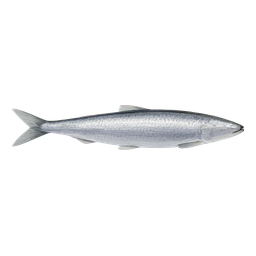
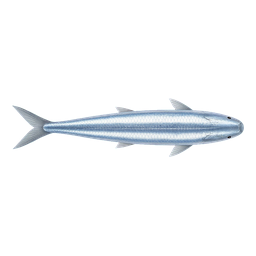
v2026.11.05-5: Tiere von oben, unter der Oberfläche
Seegras ist raus. Fische, Schildkröte und Quallen sind Draufsichten und
liegen gedämpft, leicht unscharf und mit Lichtflecken unter dem Müll.

Changed region(s): [[0.0312, 0.375, 0.9688, 0.625]]

diff --git a/src/life-layer.js b/src/life-layer.js
@@ -1,6 +1,7 @@
-// Meeresleben UNTER dem Müll-Canvas: Seegras, Quallen, Schildkröte, Fische.
-// Wird nicht eingesammelt. Wischen beeinflusst nur die eigene Bewegung (life-sim.js).
-import {LIFE_KINDS,createCreature,stepLife} from './life-sim.js?v=20261105-life4';
+// Meeresleben UNTER der Wasseroberfläche und unter dem Müll.
+// Eigener Canvas: Tiere etwas dunkel, leicht unscharf, mit wandernden Kaustiken.
+// Kein Auflageschatten — der gehört nur zum Müll auf der Oberfläche.
+import {LIFE_KINDS,createCreature,stepLife} from './life-sim.js?v=20261105-life5';
 
 const load=src=>new Promise((ok,fail)=>{const i=new Image();i.decoding='async';i.onload=()=>ok(i);i.onerror=()=>fail(new Error('Bild fehlt: '+src));i.src=src;});
 const rng=seed=>()=>{seed|=0;seed=seed+0x6D2B79F5|0;let t=Math.imul(seed^seed>>>15,1|seed);t=t+Math.imul(t^t>>>7,61|t)^t;return((t^t>>>14)>>>0)/4294967296;};
@@ -9,7 +10,9 @@ export class LifeLayer{
  constructor(ocean,config,input,{seed=29}={}){
   this.ocean=ocean;this.cfg=config;this.input=input;this.rand=rng(seed);
   this.canvas=document.createElement('canvas');this.canvas.className='life-layer';this.canvas.setAttribute('aria-hidden','true');
-  this.ctx=this.canvas.getContext('2d');this.creatures=[];this.raf=0;this.last=0;this.time=0;this.acc=0;
+  this.ctx=this.canvas.getContext('2d');
+  this.buf=document.createElement('canvas');this.bctx=this.buf.getContext('2d');
+  this.creatures=[];this.raf=0;this.last=0;this.time=0;this.acc=0;
  }
  async init(){
   this.images={};await Promise.all(LIFE_KINDS.map(async k=>{this.images[k.name]=await load(k.src);}));
@@ -21,26 +24,21 @@ export class LifeLayer{
  get base(){return Math.max(21,Math.min(36,Math.min(this.ocean.width,this.playH())/390*25));}
  resize(){
   const o=this.ocean,dpr=Math.min(devicePixelRatio||1,2),w=Math.round(o.width*dpr),h=Math.round(o.height*dpr);this.dpr=dpr;
-  if(this.canvas.width!==w||this.canvas.height!==h){this.canvas.width=w;this.canvas.height=h;}
+  if(this.canvas.width!==w||this.canvas.height!==h){this.canvas.width=w;this.canvas.height=h;this.buf.width=w;this.buf.height=h;}
   const ph=this.playH();
   if(this.w&&this.creatures.length){const sx=o.width/this.w,sy=ph/this.h;for(const c of this.creatures){c.x*=sx;c.y*=sy;}}
   this.w=o.width;this.h=ph;
  }
  spawn(){
   const counts=this.cfg.life.counts,w=this.w,h=this.h,r=this.rand;
-  const put=(name,n,band)=>{
+  const put=(name,n)=>{
    const kind=LIFE_KINDS.find(k=>k.name===name);
-   for(let i=0;i<n;i++){
-    let x=48+r()*(w-96),y=band?h*(.55+r()*.32):70+r()*(h-140);
-    this.creatures.push(createCreature(kind,x,y,r));
-   }
+   for(let i=0;i<n;i++)this.creatures.push(createCreature(kind,48+r()*(w-96),70+r()*(h-140),r));
   };
-  put('seegras',counts.seegras,true);
-  put('qualle',counts.qualle,false);
-  put('schildkroete',counts.schildkroete,false);
-  put('sardine',counts.sardine,false);
-  put('brasse',counts.brasse,false);
-  put('makrele',counts.makrele,false);
+  put('qualle',counts.qualle);
+  put('schildkroete',counts.schildkroete);
+  put('sardine',counts.sardine);
+  put('makrele',counts.makrele);
  }
  start(){if(!this.raf&&!document.hidden){this.last=0;this.raf=requestAnimationFrame(()=>this.frame());}}
  stop(){cancelAnimationFrame(this.raf);this.raf=0;}
@@ -55,26 +53,32 @@ export class LifeLayer{
   this.raf=requestAnimationFrame(()=>this.frame());
  }
  draw(){
-  const c=this.ctx,dpr=this.dpr,base=this.base;
-  c.setTransform(1,0,0,1,0,0);c.clearRect(0,0,this.canvas.width,this.canvas.height);
-  const order=['grass','jelly','turtle','fish'];
-  const list=this.creatures.slice().sort((a,b)=>order.indexOf(a.kind.role)-order.indexOf(b.kind.role));
+  const c=this.bctx,dpr=this.dpr,base=this.base,L=this.cfg.life;
+  c.setTransform(1,0,0,1,0,0);c.clearRect(0,0,this.buf.width,this.buf.height);
+  const order={jelly:0,turtle:1,fish:2};
+  const list=this.creatures.slice().sort((a,b)=>order[a.kind.role]-order[b.kind.role]);
   for(const b of list){
    const img=this.images[b.kind.name];if(!img)continue;
-   const size=base*b.kind.look,box=size*2.4;
-   c.setTransform(dpr,0,0,dpr,0,0);
-   if(b.kind.role==='grass'){
-    c.translate(b.x,b.y);c.rotate(b.bend);c.globalAlpha=.92;
-    c.drawImage(img,-box/2,-box*.92,box,box);
-   }else if(b.kind.role==='jelly'){
-    c.translate(b.x,b.y);c.rotate(Math.sin(this.time*.3+b.phase)*.15);
-    c.scale(b.pulse,b.squash);c.globalAlpha=.88;
-    c.drawImage(img,-box/2,-box/2,box,box);
-   }else{
-    c.translate(b.x,b.y);c.rotate(b.heading);c.globalAlpha=1;
-    c.drawImage(img,-box/2,-box/2,box,box);
-   }
+   const size=base*b.kind.look,box=size*2.35;
+   c.setTransform(dpr,0,0,dpr,0,0);c.translate(b.x,b.y);
+   if(b.kind.role==='jelly'){c.scale(b.pulse,b.squash);c.globalAlpha=.9;}
+   else{c.rotate(b.heading);c.globalAlpha=1;}
+   c.drawImage(img,-box/2,-box/2,box,box);
   }
-  c.globalAlpha=1;
+  const o=this.ctx;o.setTransform(1,0,0,1,0,0);o.clearRect(0,0,this.canvas.width,this.canvas.height);
+  o.save();o.filter=`blur(${L.blur}px)`;o.globalAlpha=L.alpha;o.drawImage(this.buf,0,0);o.restore();
+  // Nur auf den Tieren: kühles Wasser und wandernde Kaustik, nichts auf leerem Grund.
+  o.save();o.globalCompositeOperation='source-atop';
+  o.fillStyle=`rgba(6,42,72,${L.tint})`;o.fillRect(0,0,this.w,this.h);
+  o.globalAlpha=L.caustic;
+  const t=this.time;
+  for(let i=0;i<6;i++){
+   const x=(this.w*(.12+i*.15)+Math.sin(t*.55+i*1.4)*this.w*.08)%this.w;
+   const y=(this.h*(.18+(i%3)*.28)+Math.cos(t*.4+i)*this.h*.06)%this.h;
+   const g=o.createRadialGradient(x,y,2,x,y,78);
+   g.addColorStop(0,'rgba(236,255,252,.95)');g.addColorStop(1,'rgba(236,255,252,0)');
+   o.fillStyle=g;o.beginPath();o.arc(x,y,78,0,Math.PI*2);o.fill();
+  }
+  o.restore();
  }
 }

diff --git a/index.html b/index.html
@@ -11,12 +11,12 @@
   <meta name="mobile-web-app-capable" content="yes">
   <meta name="apple-mobile-web-app-status-bar-style" content="black-translucent">
   <meta name="apple-mobile-web-app-title" content="Ocean Clean">
-  <link rel="manifest" href="./manifest.webmanifest?v=20261105-life4">
-  <link rel="apple-touch-icon" sizes="180x180" href="./assets/icons/apple-touch-icon.png?v=20261105-life4">
+  <link rel="manifest" href="./manifest.webmanifest?v=20261105-life5">
+  <link rel="apple-touch-icon" sizes="180x180" href="./assets/icons/apple-touch-icon.png?v=20261105-life5">
   <title>Ocean Clean</title>
   <script>
   // Version (auch unten neben Impressum sichtbar) – zum Prüfen, ob die neue Fassung geladen ist.
-  window.OCEAN_CLEAN_VERSION='2026.11.05-4';
+  window.OCEAN_CLEAN_VERSION='2026.11.05-5';
   // Sichtbare Spielfeldhöhe -> --play-h. Das WASSER ist absichtlich höher (siehe styles.css)
   // und ragt unten über den Bildschirmrand, egal wie iOS die Viewport-Höhe meldet.
   // iOS-Home-Bildschirm-App (black-translucent) meldet die Höhe teils um die Statusleiste zu klein;
@@ -28,8 +28,8 @@
    fit();addEventListener('resize',fit);addEventListener('orientationchange',function(){setTimeout(fit,300)});if(window.visualViewport)visualViewport.addEventListener('resize',fit);})();
   </script>
   <link rel="icon" type="image/svg+xml" href="./assets/wave.svg">
-  <link rel="stylesheet" href="./water-13.0.0/ocean.css?v=20261105-life4">
-  <link rel="stylesheet" href="./styles.css?v=20261105-life4">
+  <link rel="stylesheet" href="./water-13.0.0/ocean.css?v=20261105-life5">
+  <link rel="stylesheet" href="./styles.css?v=20261105-life5">
   <link rel="preload" as="image" href="./water-13.0.0/assets/coast-no-tent-v4.png">
 </head>
 <body>
@@ -38,9 +38,9 @@
     <header class="hud">
       <div class="brand"><svg viewBox="0 0 24 24" aria-hidden="true"><path d="M3 16c2.4 0 3.5-1.3 4.7-3.8C9.6 8.3 11.5 5 15.4 5a5.3 5.3 0 0 1 5.3 5.2c-1.3-1.7-3.8-2-5.1-.6-1.7 1.8-.3 4.4 2.5 4.4H21M3 19h18"/></svg><span>ocean <b>clean</b></span></div>
     </header>
-    <nav class="legal" aria-label="Rechtliches"><a href="impressum.html">Impressum</a><a href="datenschutz.html">Datenschutz</a><span class="ver" id="app-version">v2026.11.05-4</span></nav>
+    <nav class="legal" aria-label="Rechtliches"><a href="impressum.html">Impressum</a><a href="datenschutz.html">Datenschutz</a><span class="ver" id="app-version">v2026.11.05-5</span></nav>
     <p id="error" class="error" role="alert" hidden></p>
   </main>
-  <script type="module" src="./app.js?v=20261105-life4"></script>
+  <script type="module" src="./app.js?v=20261105-life5"></script>
 </body>
 </html>

diff --git a/src/life-sim.js b/src/life-sim.js
@@ -1,5 +1,5 @@
-// Reine Bewegung für Meeresleben (ohne DOM). Feste Aufrufe mit dt, testbar.
-// Gras bleibt verankert und wiegt nur. Fische schwimmen und weichen starker
+// Reine Bewegung für Meeresleben unter der Oberfläche (ohne DOM). Feste Aufrufe
+// mit dt, testbar. Fische schwimmen in der Draufsicht und weichen starker
 // Wischströmung aus. Die Schildkröte ist langsam, Quallen treiben und pulsieren.
 // Nichts davon wird eingesammelt und nichts schreibt in die Müll-Physik.
 const TAU=Math.PI*2;
@@ -9,12 +9,10 @@ const clamp=(n,a,b)=>Math.max(a,Math.min(b,n));
 
 export const LIFE_KINDS=Object.freeze([
  {name:'sardine',role:'fish',speed:48,turn:.7,wander:.85,dodge:1,drift:.04,school:true,look:.62},
- {name:'brasse',role:'fish',speed:32,turn:.32,wander:.4,dodge:1,drift:.05,school:false,look:.9},
- {name:'makrele',role:'fish',speed:54,turn:.4,wander:.5,dodge:1,drift:.04,school:false,look:1.02},
+ {name:'makrele',role:'fish',speed:54,turn:.4,wander:.5,dodge:1,drift:.04,school:false,look:1.05},
  {name:'schildkroete',role:'turtle',speed:14,turn:.16,wander:.18,dodge:.22,drift:.1,school:false,look:1.45},
- {name:'qualle',role:'jelly',speed:7,turn:.12,wander:.22,dodge:0,drift:.38,school:false,look:.95,pulse:1.15},
- {name:'seegras',role:'grass',speed:0,turn:0,wander:0,dodge:0,drift:0,school:false,look:1.12}
-].map(k=>Object.freeze({...k,src:`./assets/life/${k.name}.png?v=20261105-life4`})));
+ {name:'qualle',role:'jelly',speed:7,turn:.12,wander:.22,dodge:0,drift:.38,school:false,look:.95,pulse:1.15}
+].map(k=>Object.freeze({...k,src:`./assets/life/${k.name}.png?v=20261105-life5`})));
 
 export function createCreature(kind,x,y,rand=Math.random){
  return{kind,x,y,heading:rand()*TAU,phase:rand()*TAU,bend:0,pulse:1,squash:1};
@@ -27,13 +25,6 @@ export function stepLife(list,env,dt,cfg){
  const {width:w,height:h}=env,m=40;
  for(const c of list){
   const f=env.flow(c.x,c.y)||{vx:0,vy:0,weight:0},fw=f.weight||0;
-  if(c.kind.role==='grass'){
-   const wave=Math.sin(env.t*cfg.grassWave+c.phase)*cfg.grassAmp;
-   let flow=0;
-   if(fw>.05&&(f.vx||f.vy))flow=Math.atan2(f.vy,f.vx)*Math.min(1,fw)*cfg.grassFlow;
-   c.bend=clamp(wave+flow,-cfg.grassMax,cfg.grassMax);
-   c.pulse=1;c.squash=1;continue;
-  }
   let turn=Math.sin(env.t*c.kind.wander+c.phase)*c.kind.turn;
   if(c.kind.school){
    const mates=schools[c.kind.name];let sx=0,sy=0,hx=0,hy=0,near=0;

diff --git a/app.js b/app.js
@@ -1,8 +1,8 @@
 import {OceanWater} from './water-13.0.0/ocean.js';
-import {makeConfig} from './src/config.js?v=20261105-life4';
-import {TrashLayer} from './src/trash-layer.js?v=20261105-life4';
-import {LifeLayer} from './src/life-layer.js?v=20261105-life4';
-import {SwipeInput,tuneWater} from './src/swipe-input.js?v=20261105-life4';
+import {makeConfig} from './src/config.js?v=20261105-life5';
+import {TrashLayer} from './src/trash-layer.js?v=20261105-life5';
+import {LifeLayer} from './src/life-layer.js?v=20261105-life5';
+import {SwipeInput,tuneWater} from './src/swipe-input.js?v=20261105-life5';
 const root=document.querySelector('#ocean'),error=document.querySelector('#error');
 const fail=message=>{error.hidden=false;error.textContent=message;};
 try{
@@ -15,7 +15,7 @@ try{
  const trash=await new TrashLayer(ocean,config,input).init();
  trash.canvas.before(life.canvas);
  window.oceanClean={ocean,trash,life,input,config,version:window.OCEAN_CLEAN_VERSION};
- if(new URLSearchParams(location.search).has('debug'))import('./src/debug.js?v=20261105-life4').then(m=>m.startDebug(window.oceanClean));
+ if(new URLSearchParams(location.search).has('debug'))import('./src/debug.js?v=20261105-life5').then(m=>m.startDebug(window.oceanClean));
  // Vollbild: bei Drehung / Browserleisten-Änderung Wasser und Müll-Canvas neu vermessen
  let pending=0;const refit=()=>{cancelAnimationFrame(pending);pending=requestAnimationFrame(()=>{const r=root.getBoundingClientRect();
   if(Math.abs(r.width-ocean.width)>.5||Math.abs(r.height-ocean.height)>.5)ocean.resize();life.resize();trash.resize();});};

diff --git a/src/trash-catalog.js b/src/trash-catalog.js
@@ -9,7 +9,7 @@ export const TRASH=Object.freeze([
  ['metall','kronkorken',0.42,0.15,0.6,0.4],['metall','dose',0.75,0.5,0.8,0.68],['metall','konservendose',0.8,0.7,0.65,0.62],['metall','spraydose',0.85,0.6,0.8,0.8],['metall','alu-schale',0.9,0.2,0.9,0.9],['metall','fischdose',0.75,0.5,0.75,0.7],
  ['glas','gruene-flasche',1.0,0.9,0.7,1.0],['glas','schraubglas',0.82,0.85,0.65,0.68],['glas','bierflasche',1.0,0.9,0.7,1.0],['glas','flaschenpost',0.95,0.8,0.75,0.95],['glas','parfuemflakon',0.7,0.6,0.65,0.58],['glas','medizinflasche',0.7,0.6,0.65,0.58],
  ['rest','badelatsche',0.85,0.45,0.95,0.9],['rest','reifen',1.1,1.2,0.7,1.25],['rest','fischernetz',1.1,0.8,0.5,1.2],['rest','handschuh',0.8,0.3,0.7,0.9],['rest','maske',0.85,0.15,0.6,0.85],['rest','windel',1.0,0.6,0.6,1.0]
-].map(([category,name,radius,mass,float,look])=>Object.freeze({category,name,radius,mass,float,look,src:`./assets/trash/${category}-${name}.png?v=20261105-life4`})));
+].map(([category,name,radius,mass,float,look])=>Object.freeze({category,name,radius,mass,float,look,src:`./assets/trash/${category}-${name}.png?v=20261105-life5`})));
 // Spawn-Reihenfolge: Kategorien reihum (je Runde gemischt), innerhalb der Kategorie ohne Wiederholung
 // bis alle 6 dran waren → alle 4 Kategorien kommen gleich oft vor (±1).
 export function balancedOrder(n,rand=Math.random){

diff --git a/src/config.js b/src/config.js
@@ -75,13 +75,13 @@ export const BASE_CONFIG=Object.freeze({
   swayFreq:.12,      // Hz, eine Welle in etwa 8 s
   scaleAmp:.045      // Größenatemzug mit dem Hub, Anteil
  }),
- // Meeresleben unter dem Müll. Zähler klein halten (Mobile). Geschwindigkeiten in life-sim.js.
+ // Meeresleben unter der Oberfläche, unter dem Müll. Keine Pflanzen.
  life:Object.freeze({
-  counts:Object.freeze({sardine:7,brasse:2,makrele:2,schildkroete:1,qualle:2,seegras:6}),
-  grassAmp:.16,      // rad Wiegen ohne Strömung
-  grassWave:.65,     // rad/s
-  grassFlow:.4,      // zusätzliches Neigen mit der Wischströmung
-  grassMax:.5,       // rad Deckel
+  counts:Object.freeze({sardine:8,makrele:3,schildkroete:1,qualle:2}),
+  alpha:.8,          // durchscheinend, das Wasser scheint hindurch
+  blur:.65,          // px, leichte Unschärfe unter der Oberfläche
+  tint:.4,           // Stärke der blauen Abdunklung auf den Tieren
+  caustic:.42,       // wandernde Lichtflecken nur auf den Tieren
   dodge:2.4,         // wie schnell Fische quer zur Strömung abdrehen
   cohere:.55         // Zusammenhalt der Sardinen-Schule
  })

diff --git a/src/trash-layer.js b/src/trash-layer.js
@@ -6,8 +6,8 @@
 // Kein direktes Ziehen – der Finger bewegt das Wasser (Bugwelle + lokale
 // Wischströmung aus swipe-input.js), die Strömung nimmt den Müll mit.
 import {stepBuoyancy} from '../water-13.0.0/ocean.js';
-import {TRASH,balancedOrder} from './trash-catalog.js?v=20261105-life4';
-import {createBody,advance,displayFloat,seaSway} from './trash-physics.js?v=20261105-life4';
+import {TRASH,balancedOrder} from './trash-catalog.js?v=20261105-life5';
+import {createBody,advance,displayFloat,seaSway} from './trash-physics.js?v=20261105-life5';
 
 const load=src=>new Promise((ok,fail)=>{const i=new Image();i.decoding='async';i.onload=()=>ok(i);i.onerror=()=>fail(new Error('Bild fehlt: '+src));i.src=src;});
 const rng=seed=>()=>{seed|=0;seed=seed+0x6D2B79F5|0;let t=Math.imul(seed^seed>>>15,1|seed);t=t+Math.imul(t^t>>>7,61|t)^t;return((t^t>>>14)>>>0)/4294967296;};

diff --git a/src/swipe-input.js b/src/swipe-input.js
@@ -2,7 +2,7 @@
 // Wasser-Canvas (ocean.js verarbeitet sie weiter, seine eigenen Wisch-/Tipp-Impulse
 // werden von tuneWater() abgefangen). Statt einer Kette aus Punkttropfen entsteht
 // eine zusammenhängende, schmale Bugwelle: vorn Druck, dicht dahinter Sog.
-import {SwipeFlow} from './swipe-flow.js?v=20261105-life4';
+import {SwipeFlow} from './swipe-flow.js?v=20261105-life5';
 
 // Wake-Impulse für einen Wischabschnitt (reine Funktion, testbar).
 // Rückgabe: Liste [x,y,amplitude,radius] in Pixeln.

diff --git a/README.md b/README.md
@@ -53,12 +53,13 @@ Veröffentlichung: GitHub Pages aus `main` (Root), `.nojekyll`. Keine externen V
 - Renderer: `look` je Item (realistische relative Größen, nur Darstellung), freie 360°-Drehung, Schatten aus der
   Silhouette. Physik (`radius`, `mass`, `float`) unverändert.
 
+## Unter Wasser, von oben (v2026.11.05-5)
+- Seegras ist raus (`asset-sources/life/unused/`). Sardinen und Makrelen, die Schildkröte und die Quallen sind von oben.
+- Sie liegen unter dem Müll und wirken unter der Oberfläche: durchscheinend, leicht unscharf, blau abgedunkelt, mit wandernden Lichtflecken. Kein Auflageschatten.
+- Bewegung bleibt: Fische weichen dem Wisch aus, die Schildkröte ist langsam, Quallen pulsieren und treiben.
+
 ## Meeresleben (v2026.11.05-4)
-- Unter dem Müll, über dem Wasser: 7 Sardinen als Schule, 2 Goldbrassen, 2 Makrelen,
-  1 Schildkröte, 2 Ohrenquallen, 6 Seegrasbüschel (`assets/life/`, Quellen in `asset-sources/life/`).
-- Fische schwimmen in weichen Bahnen und drehen bei starkem Wisch quer ab. Die Schildkröte ist langsam.
-  Quallen treiben mit und pulsieren. Seegras bleibt verwurzelt und wiegt mit Welle und Strömung.
-- Nichts davon wird eingesammelt. Stellschrauben: `life` in `src/config.js`.
+- Erste Fassung mit Sardinen, Brassen, Makrelen, Schildkröte, Quallen und Seegras. Seitenansicht der Fische und Pflanzen wurden in v2026.11.05-5 ersetzt.
 
 ## Leichte Meeresunruhe (v2026.11.05-3)
 - Ohne Wischen schaukeln die PNG-Items langsam: 7 px hoch/runter (alle 5 s) und 11 px hin/her (etwa alle 8 s),
@@ -90,7 +91,7 @@ Veröffentlichung: GitHub Pages aus `main` (Root), `.nojekyll`. Keine externen V
 - Unterer Rand robust: Das Wasser ist absichtlich höher als jede mögliche Viewport-Höhe
   (`max(100vh,100lvh,--play-h) + Safe-Areas + 80px`) und ragt unten über den Bildschirm. Spielfeld (Rand der Teile), Impressum
   und Fehlermeldung richten sich nach `--play-h` (sichtbare Höhe; in der iOS-Home-Bildschirm-App die echte Bildschirmhöhe).
-- Version unten neben Impressum (`v2026.11.05-4`), Diagnose-Overlay mit `?debug=1` (`src/debug.js`).
+- Version unten neben Impressum (`v2026.11.05-5`), Diagnose-Overlay mit `?debug=1` (`src/debug.js`).
 - v4 – iOS-26-Home-Bildschirm-Bug: In der Standalone-App (black-translucent + viewport-fit=cover) sind `innerHeight`,
   `100%`, `100dvh` um die Statusleiste zu kurz, nur `100vh`/`100lvh` stimmen. `html,body{height:100%;overflow:hidden}`
   aus ocean.css schnitt daher unten ab (Streifen). Fix in `styles.css`: in Standalone (`html.standalone` bzw.
